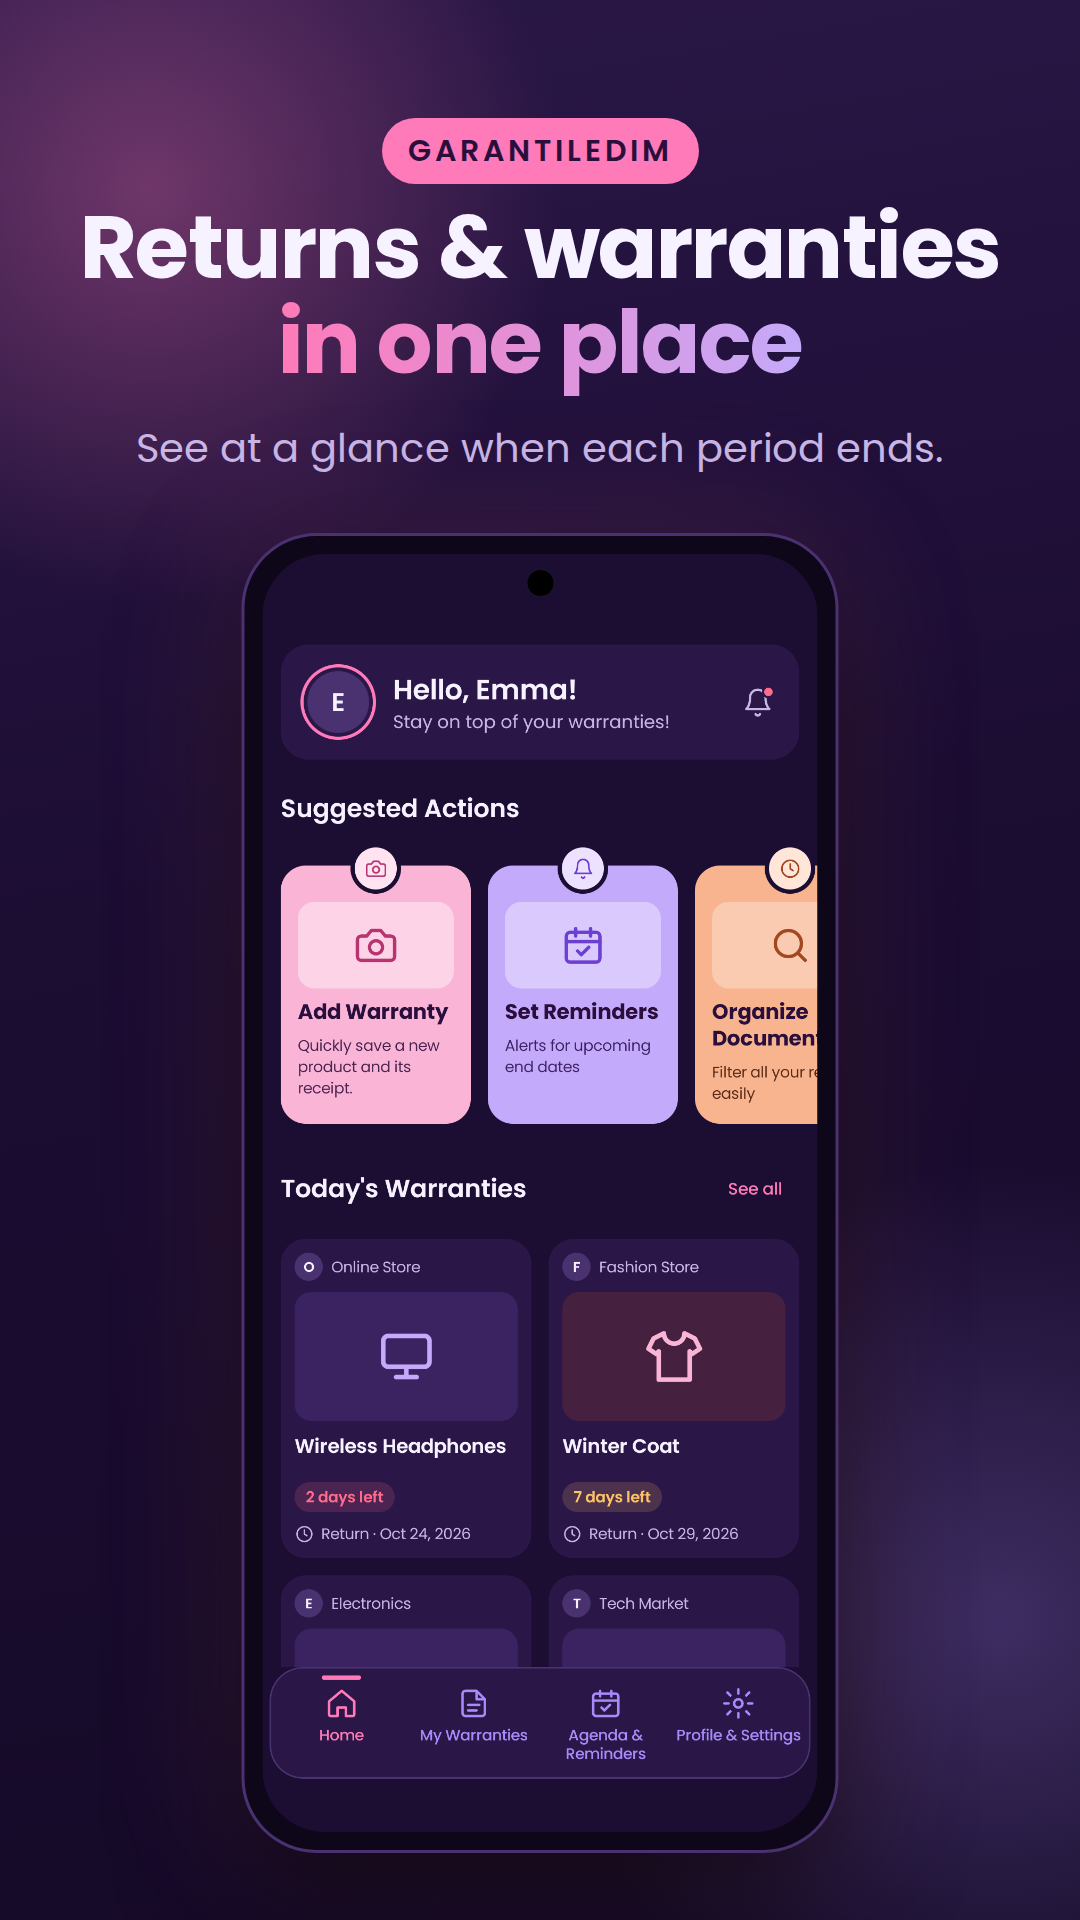
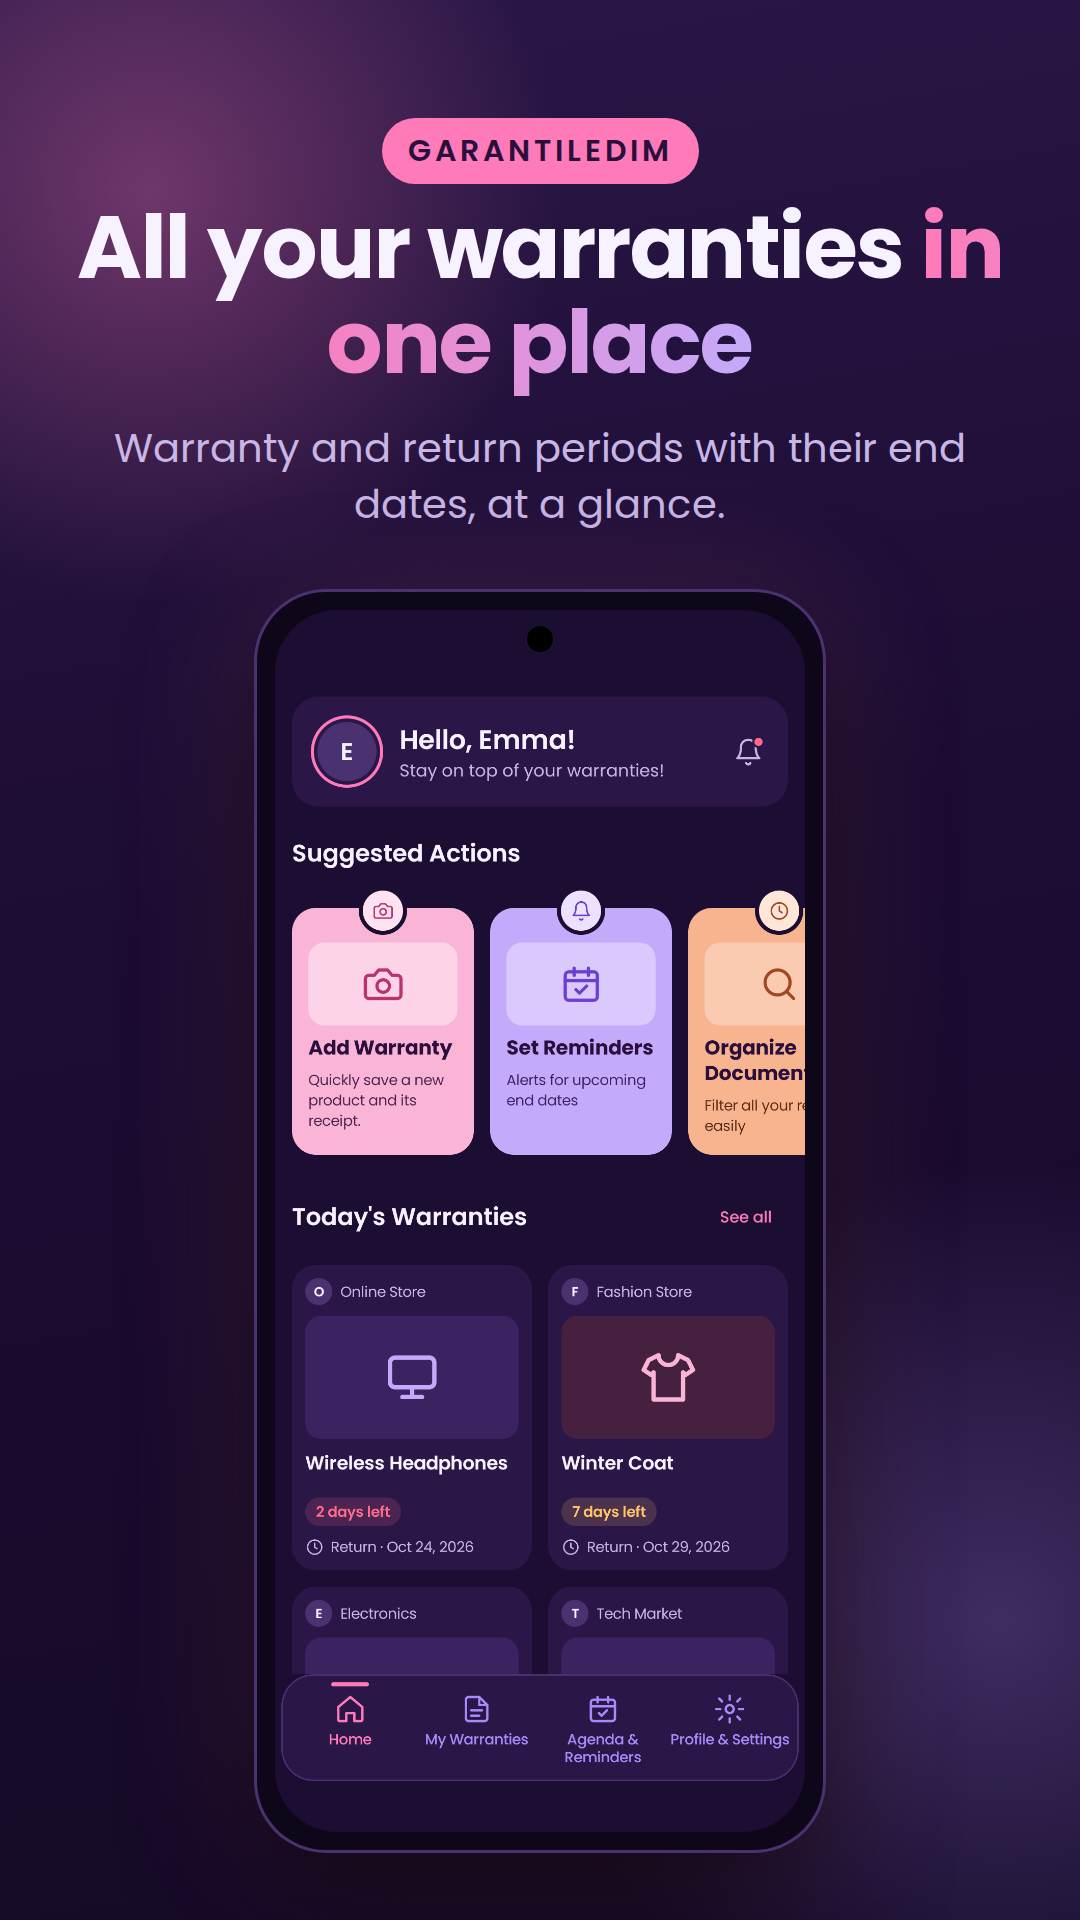
Tanıtım metinleri: fiş yerine garanti belgesi vurgusu (görseller, video, mağaza açıklamaları)
Claude-Session: https://claude.ai/code/session_013Z7eKv5ShgwnFBUsoe1pQm

Changed region(s): [[0.0611, 0.0938, 0.9472, 0.9688], [0.6722, 0.375, 0.7028, 0.4062]]

diff --git a/play/tanitim-kaynak/video.html b/play/tanitim-kaynak/video.html
@@ -45,7 +45,7 @@ html,body{margin:0;background:#000}
 </div>
 <!-- S1 hook -->
 <div class="scene" id="s1">
-  <div class="big" id="q1" style="top:380px;font-size:150px"></div>
+  <div class="big" id="q1" style="top:300px;font-size:128px;line-height:1.12"></div>
   <div class="big" id="q2" style="top:330px;font-size:104px;line-height:1.15"></div>
 </div>
 <!-- S2 home -->
@@ -103,22 +103,22 @@ html,body{margin:0;background:#000}
 <script>
 const LANG = new URLSearchParams(location.search).get('lang') || 'tr';
 const TX = {
- tr: {title:'Garantiledim', tag:'Garanti sürelerini takipte kal!', q1:'Fiş nerede?', q2:'İade süresi<br>ne zaman bitiyor?',
+ tr: {title:'Garantiledim', tag:'Garanti sürelerini takipte kal!', q1:'Garanti belgen<br>nerede?', q2:'Garantin<br>hâlâ geçerli mi?',
   k2:'TEK YERDE', h2:'Tüm garantilerin<br><em>tek ekranda</em>', d2:'İade ve garanti süreleri teslim tarihinden otomatik hesaplanır.',
   k3:'GERİ SAYIM', h3:'Son günü<br><em>asla kaçırma</em>', d3:'Kalan süre ve ilerleme her an gözünün önünde.', cnt:(n)=>n+' gün',
   k4:'HATIRLATMA', h4:'Süre dolmadan<br><em>haber verir</em>', d4:'Bitişten günler önce bildirim; saatini sen seç.',
-  na:'Garantiledim · şimdi', nt:'İade hakkı süresi bitiyor', nb:'Kablosuz Kulaklık için iade hakkının bitmesine 2 gün kaldı',
-  k5:'FİŞ & FATURA', h5:'Fişini çek,<br><em>faturanı sakla</em>', d5:'Kamera, galeri ya da PDF. Orijinal haliyle saklanır.', c5:['Fotoğraf','PDF','Orijinal kalite'],
+  na:'Garantiledim · şimdi', nt:'Garanti süresi bitiyor', nb:'Akıllı Saat için garanti süresinin bitmesine 3 gün kaldı',
+  k5:'GARANTİ BELGESİ', h5:'Garanti belgen<br><em>hep yanında</em>', d5:'Garanti belgesini ve faturanı fotoğraf ya da PDF olarak sakla; orijinal haliyle.', c5:['Garanti belgesi','Fatura','PDF'],
   t6:'Garantiledim <em>Premium</em>', c6:['∞  Sınırsız ürün','⇪  Yedekle ve taşı','★  Tek seferlik ödeme'],
   h7:'Gizliliğin <em>sende</em>', e:[['Hesap yok','Kayıt gerekmez'],['Reklam yok','Takip de yok'],['Telefonunda','Veriler cihazda kalır'],['Türkçe · English','İki dil desteği']],
   cta:'ŞİMDİ GOOGLE PLAY\'DE',
   shots:['01-ana-sayfa.png','03-detay.png','06-ajanda.png','08-yeni-urun.png','13-premium-nofiyat.png']},
- en: {title:'Garantiledim', tag:'Stay on top of your warranties!', q1:'Where\'s the receipt?', q2:'When does the<br>return window close?',
+ en: {title:'Garantiledim', tag:'Stay on top of your warranties!', q1:'Where\'s your<br>warranty card?', q2:'Is your warranty<br>still valid?',
   k2:'ALL IN ONE PLACE', h2:'Every warranty<br><em>on one screen</em>', d2:'Return and warranty periods are calculated from the delivery date.',
   k3:'COUNTDOWN', h3:'Never miss<br><em>the last day</em>', d3:'Time left and progress, always in sight.', cnt:(n)=>n+(n==1?' day':' days'),
   k4:'REMINDERS', h4:'Get reminded<br><em>before it ends</em>', d4:'Notifications days before the end date, at your chosen time.',
-  na:'Garantiledim · now', nt:'Return period ending soon', nb:'2 days left on the return period for Wireless Headphones',
-  k5:'RECEIPTS', h5:'Snap the receipt,<br><em>keep the invoice</em>', d5:'Camera, gallery or PDF. Stored in original quality.', c5:['Photo','PDF','Original quality'],
+  na:'Garantiledim · now', nt:'Warranty ending soon', nb:'3 days left on the warranty for Smartwatch',
+  k5:'WARRANTY CARD', h5:'Warranty card,<br><em>always at hand</em>', d5:'Warranty certificates and invoices as a photo or PDF.', c5:['Warranty card','Invoice','PDF'],
   t6:'Garantiledim <em>Premium</em>', c6:['∞  Unlimited products','⇪  Back up & move','★  One-time payment'],
   h7:'Your privacy, <em>your call</em>', e:[['No account','No sign-up needed'],['No ads','No tracking either'],['On your phone','Data stays on device'],['English · Türkçe','Two languages']],
   cta:'NOW ON GOOGLE PLAY',
@@ -211,5 +211,5 @@ function render(t){
    const fo=prog(t,45.2,46); $('v').style.opacity=1-fo;}
  }
 }
-window.render=render; document.fonts.ready.then(()=>{document.body.dataset.ready=1;});
+window.render=render; document.fonts.ready.then(()=>{let x=930;['c5a','c5b','c5c'].forEach(c=>{$(c).style.left=x+'px';x+=$(c).offsetWidth+22;});document.body.dataset.ready=1;});
 </script></body></html>

diff --git a/play/tanitim-kaynak/cards.js b/play/tanitim-kaynak/cards.js
@@ -2,16 +2,16 @@ const { chromium } = require('playwright');
 const M = process.argv[2];
 const T = {
  tr: [
-  ['01','01-ana-sayfa.png','GARANTİLEDİM','İade ve garanti <em>tek yerde</em>','Hangi ürünün süresi ne zaman bitiyor, bir bakışta gör.'],
+  ['01','01-ana-sayfa.png','GARANTİLEDİM','Tüm garantilerin <em>tek yerde</em>','Garanti ve iade süreleri, bitiş tarihleriyle bir bakışta.'],
   ['02','03-detay.png','SON GÜNÜ KAÇIRMA','Kalan süre <em>her an</em> gözünün önünde','İade ve garanti için geri sayım ve ilerleme çubuğu.'],
   ['03','06-ajanda.png','HATIRLATMA','Süre dolmadan <em>haber ver</em>','Bitişten günler önce bildirim al, saatini sen seç.'],
-  ['04','08-yeni-urun.png','FİŞ & FATURA','Fişini çek, <em>faturanı sakla</em>','Fotoğraf ya da PDF, orijinal haliyle güvende.'],
+  ['04','08-yeni-urun.png','GARANTİ BELGESİ','Garanti belgen <em>hep yanında</em>','Garanti belgesini ve faturanı fotoğraf ya da PDF olarak sakla.'],
   ['05','02-belgelerim.png','HIZLI ERİŞİM','Ara, filtrele, <em>hemen bul</em>','Yaklaşan, aktif ya da süresi dolmuş tüm ürünlerin.'],
   ['06','13-premium-nofiyat.png','PREMIUM','Premium ile <em>sınırsız</em>','Sınırsız ürün ve yedekleme · tek seferlik ödeme, abonelik yok.'],
   ['07','07-profil.png','GİZLİLİK','Verilerin <em>sadece telefonunda</em>','Hesap yok, reklam yok, takip yok. Türkçe ve İngilizce.'],
  ],
  en: [
-  ['01','21-en-ana-sayfa.png','GARANTILEDIM','Returns & warranties <em>in one place</em>','See at a glance when each period ends.'],
+  ['01','21-en-ana-sayfa.png','GARANTILEDIM','All your warranties <em>in one place</em>','Warranty and return periods with their end dates, at a glance.'],
   ['02','23-en-detay.png','NEVER MISS A DEADLINE','Time left, <em>always in sight</em>','A countdown and progress bar for every return and warranty.'],
   ['03','24-en-ajanda.png','REMINDERS','Get reminded <em>before it ends</em>','Notifications days before the end date, at the time you choose.'],
   ['04','22-en-belgelerim.png','QUICK ACCESS','Search, filter, <em>find it fast</em>','Upcoming, active or expired — all your products.'],

diff --git a/play/tanitim-kaynak/frames.js b/play/tanitim-kaynak/frames.js
@@ -7,7 +7,7 @@ const [,, M, lang, mode, out] = process.argv;   // mode: "preview" | "video"
   await p.goto('file://' + M + '/video.html?lang=' + lang);
   await p.waitForSelector('body[data-ready]'); await p.waitForTimeout(300);
   if (mode === 'preview') {
-    const times = [1.2, 3.5, 5, 7, 10, 13, 16.5, 22.8, 29, 34.5, 39, 43.5];
+    const times = [5, 7, 23, 29];
     for (const t of times) { await p.evaluate(t => render(t), t); await p.screenshot({ path: `${out}/pv-${lang}-${t}.jpg`, type: 'jpeg', quality: 80 }); }
   } else {
     const fps = 30, dur = 46;

diff --git a/play/README.md b/play/README.md
@@ -23,14 +23,14 @@ Garantiledim'i Play Console'a eklerken kullanılacak metinler, görseller ve for
 **Tam açıklama** (en fazla 4000 karakter):
 
 ```
-Aldığın ürünün iade hakkı ne zaman bitiyor? Garantisi hâlâ devam ediyor mu? Fatura nerede? Garantiledim bu soruları tek yerde cevaplar.
+Aldığın ürünün garantisi hâlâ devam ediyor mu? Garanti belgesi nerede? İade hakkı ne zaman bitiyor? Garantiledim bu soruları tek yerde cevaplar.
 
 Ürünü ve teslim tarihini gir; Garantiledim 14 günlük iade (cayma) hakkını ve 2 yıllık garanti süresini senin için hesaplar, süre dolmadan seni uyarır. Faturanın fotoğrafını ya da PDF'ini ekle, ihtiyaç duyduğunda orijinal haliyle aç veya İndirilenler klasörüne kaydet.
 
 NELER YAPABİLİRSİN
 • Bir üründe iade hakkını ve garantiyi birlikte takip et
 • Süreler teslim tarihinden otomatik hesaplanır; mağazanın farklı iade süresi ya da ek garanti için tarihi elle değiştirebilirsin
-• Fişi kamerayla çek ya da galeriden, dosyalardan fotoğraf veya PDF fatura ekle; dosya sıkıştırılmadan, orijinal haliyle saklanır
+• Garanti belgeni ve faturanı kamerayla çek ya da galeriden, dosyalardan fotoğraf veya PDF olarak ekle; dosya sıkıştırılmadan, orijinal haliyle saklanır
 • Faturayı tek dokunuşla İndirilenler klasörüne kaydet
 • Bitişe birkaç gün kala her gün, son gün ve süre dolduğunda bildirim al; hatırlatma başlangıcını ve saatini sen seç
 • Ajanda ekranında yaklaşan tüm bitiş tarihlerini haftalara göre gör
@@ -64,14 +64,14 @@ Track return and warranty periods, get reminded before they end.
 Tam açıklama:
 
 ```
-When does the return window for your purchase close? Is the warranty still valid? Where is the receipt? Garantiledim answers all of these in one place.
+Is the warranty on your purchase still valid? Where is the warranty card? When does the return window close? Garantiledim answers all of these in one place.
 
-Enter the product and its delivery date; Garantiledim calculates a 14-day return period and a 2-year warranty for you and reminds you before they end. Add a photo or PDF of the receipt, open it in its original form whenever you need it, or save it to your Downloads folder.
+Enter the product and its delivery date; Garantiledim calculates a 14-day return period and a 2-year warranty for you and reminds you before they end. Add a photo or PDF of the warranty card or invoice, open it in its original form whenever you need it, or save it to your Downloads folder.
 
 WHAT YOU CAN DO
 • Track the return period and the warranty of a product together
 • Periods are calculated from the delivery date; change the dates for a store's own return policy or an extended warranty
-• Snap a receipt with the camera or add a photo or PDF invoice from your gallery or files; the file is stored in its original form, uncompressed
+• Snap your warranty card or invoice with the camera, or add a photo or PDF from your gallery or files; the file is stored in its original form, uncompressed
 • Save an invoice to Downloads with one tap
 • Get a notification every day in the last days, on the last day and when a period ends; choose when reminders start and at what time
 • See all upcoming end dates by week in the Agenda
@@ -81,7 +81,7 @@ WHAT YOU CAN DO
 PREMIUM
 Free for up to 3 products. With Garantiledim Premium:
 • Unlimited products and reminders
-• Back up your products, receipts and photos into a single file and restore them on a new phone
+• Back up your products, warranty documents and photos into a single file and restore them on a new phone
 • One-time payment: no subscription, no automatic renewal
 
 YOUR PRIVACY
@@ -98,7 +98,7 @@ Sürüm notu (en-US):
 
 ```
 <en-US>
-First release of Garantiledim: track return and warranty periods, keep your receipts and get reminded before they end. Free for up to 3 products; Premium adds unlimited products and backup.
+First release of Garantiledim: track warranty and return periods, keep your warranty documents and get reminded before they end. Free for up to 3 products; Premium adds unlimited products and backup.
 </en-US>
 ```
 
@@ -198,7 +198,7 @@ Test satın alması: Play Console > Ayarlar > **Lisans testi** listesine kendi G
 
 ```
 <tr-TR>
-Garantiledim'in ilk sürümü: iade ve garanti sürelerini takip et, faturalarını sakla, süre dolmadan hatırlatma al.
+Garantiledim'in ilk sürümü: garanti ve iade sürelerini takip et, garanti belgelerini sakla, süre dolmadan hatırlatma al.
 </tr-TR>
 ```
 
